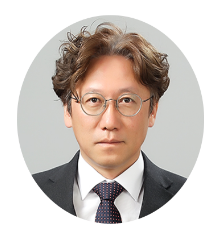
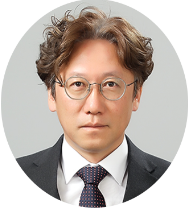
update

diff --git a/html/members/professor.html b/html/members/professor.html
@@ -54,12 +54,12 @@
                 <div class="row d-flex">
                     <div class="col-lg-3">
                         <div class="d-flex justify-content-center" style="margin-top: 10%;">
-                            <div class="box">
+                            <div class="box" style="height:120px; width: 120px">
                                 <img
                                 src="../../image/profile_professor.png"
                                 class="profile"
                                 alt="프로필"
-                                style="height:120%; width: 120%;"
+                                style="height:100%; width: 100%;"
                                 />
                             </div>
                         </div>
